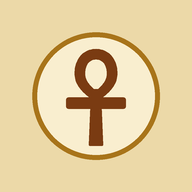
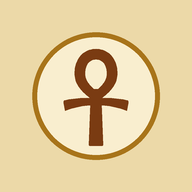
Ankh with tapered, drooping arms

Changed region(s): [[0.5312, 0.5, 0.6875, 0.5938], [0.3125, 0.5, 0.4688, 0.5938]]

diff --git a/index.html b/index.html
@@ -160,7 +160,7 @@ button:focus-visible{box-shadow:0 0 0 2px var(--card),0 0 0 4px var(--ac)}
 </head>
 <body>
 <svg width="0" height="0" style="position:absolute" aria-hidden="true">
-  <symbol id="i-ankh" viewBox="-20 0 140 140"><g fill="currentColor" stroke="none"><path fill-rule="evenodd" d="M50 4C70 4 80 21 80 38C80 56 67 66 57 74L43 74C33 66 20 56 20 38C20 21 30 4 50 4Z M50 19C61 19 65 29 65 39C65 48 59 54 53 60L47 60C41 54 35 48 35 39C35 29 39 19 50 19Z"/><path d="M12 72H88Q92 72 92 76V84Q92 88 88 88H12Q8 88 8 84V76Q8 72 12 72Z"/><path d="M42 86H58L60 138Q60 140 58 140H42Q40 140 40 138Z"/></g></symbol>
+  <symbol id="i-ankh" viewBox="-20 0 140 140"><g fill="currentColor" stroke="none"><path fill-rule="evenodd" d="M50 4C70 4 80 21 80 38C80 56 67 66 57 74L43 74C33 66 20 56 20 38C20 21 30 4 50 4Z M50 19C61 19 65 29 65 39C65 48 59 54 53 60L47 60C41 54 35 48 35 39C35 29 39 19 50 19Z"/><path d="M44 73Q24 72 6 76Q4 77 4.5 80L6.5 91Q24 84 44 83L56 83Q76 84 93.5 91L95.5 80Q96 77 94 76Q76 72 56 73Z"/><path d="M42 82H58L60 138Q60 140 58 140H42Q40 140 40 138Z"/></g></symbol>
   <symbol id="i-lock" viewBox="0 0 24 24"><rect x="5" y="11" width="14" height="10" rx="2.5"/><path d="M8 11V8a4 4 0 0 1 8 0v3"/><circle cx="12" cy="16" r="1.2" fill="currentColor"/></symbol>
   <symbol id="i-moon" viewBox="0 0 24 24"><path d="M20 14.5A8 8 0 1 1 9.5 4a6.5 6.5 0 0 0 10.5 10.5z"/></symbol>
   <symbol id="i-sun" viewBox="0 0 24 24"><circle cx="12" cy="12" r="4"/><path d="M12 2v2M12 20v2M2 12h2M20 12h2M4.9 4.9l1.4 1.4M17.7 17.7l1.4 1.4M4.9 19.1l1.4-1.4M17.7 6.3l1.4-1.4"/></symbol>

diff --git a/sw.js b/sw.js
@@ -1,4 +1,4 @@
-const V="kelma-v5",SHELL=["./","index.html","config.js","manifest.webmanifest","icon-192.png"];
+const V="kelma-v6",SHELL=["./","index.html","config.js","manifest.webmanifest","icon-192.png"];
 self.addEventListener("install",e=>{e.waitUntil(caches.open(V).then(c=>c.addAll(SHELL)).then(()=>self.skipWaiting()));});
 self.addEventListener("activate",e=>{e.waitUntil(caches.keys().then(k=>Promise.all(k.filter(x=>x!==V).map(x=>caches.delete(x)))).then(()=>self.clients.claim()));});
 self.addEventListener("fetch",e=>{const r=e.request;if(r.method!=="GET"||new URL(r.url).origin!==location.origin)return;
